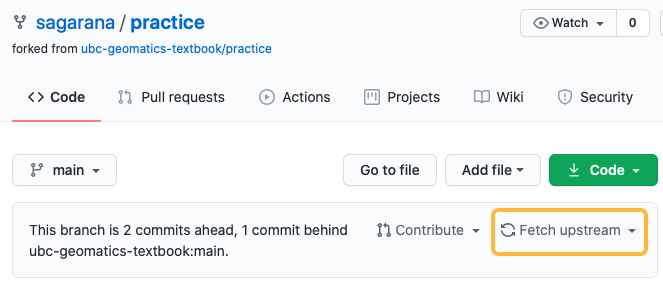
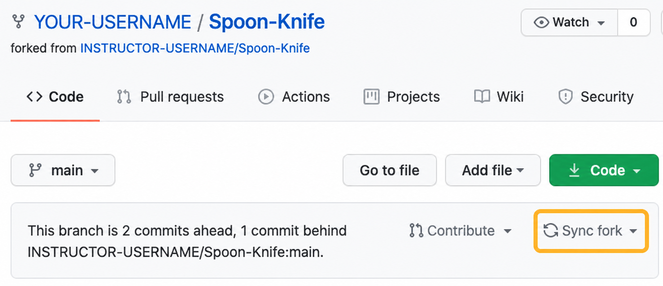
Rewrite collaboration workflow around Spoon-Knife
- Demonstrate the instructor forking octocat/Spoon-Knife.
- Direct students to fork and clone the instructor's fork.
- Target student pull requests at the instructor's repository.
- Replace instructor-specific repository links and screenshots.

diff --git a/content/05_collab_on_github.md b/content/05_collab_on_github.md
@@ -17,11 +17,15 @@ nav_exclude: false
 # Collaborating on GitHub
 {: .no_toc}
 
-The GitHub platform facilitates collaboration by managing access and tracking activity on multi-author projects. A common workflow for teamwork is to use the _fork_, _clone_, and _pull request_ features of Git and GitHub. Consider this example: 
+The GitHub platform facilitates collaboration by managing access and tracking activity on multi-author projects. A common workflow for teamwork is to use the _fork_, _clone_, and _pull request_ features of Git and GitHub. Consider this example:
 
-> _A team of 10 people is writing a textbook. Everyone will contribute content and the files will be stored in the main branch of the project repository. To avoid unintended conflicts each team member will work in their own copy of the repository, periodically merging their work back into the main project repository._ 
+> _A team of 10 people is writing a textbook. Everyone will contribute content and the files will be stored in the main branch of the project repository. To avoid unintended conflicts each team member will work in their own copy of the repository, periodically merging their work back into the main project repository._
 
  ![](figures/git-collaboration_1.png)
+
+Throughout this section of the workshop, you will practice this team workflow with GitHub's public [`octocat/Spoon-Knife`](https://github.com/octocat/Spoon-Knife) demonstration repository.
+
+![The octocat/Spoon-Knife repository on GitHub](figures/spoon-knife-overview.png)
 
 Here are some of the Git commands and GitHub features you will encounter in this workflow.
 
@@ -30,45 +34,47 @@ Here are some of the Git commands and GitHub features you will encounter in this
 - **Pull request**. A GitHub feature that allows the owner of the main project repository to "pull" in changes made in forks of the repository. When it's time to merge your own work with the main project repository, submit a "pull request" from your fork.
 
 ### Creating a fork
-In this scenario team members never edit the main project repository: each person's work is done in a _fork_, a copy of the main repository that exists in their own GitHub account. 
+In this scenario, team members never edit the main project repository directly. Instead, each person works in a _fork_, a copy of the main repository in their own GitHub account.
 
-To create a fork sign in to GitHub, navigate to the main project repository, then click the _Fork_ button in the top right corner. 
-![Fork button in GitHub](figures/fork.png)
+GitHub provides [`octocat/Spoon-Knife`](https://github.com/octocat/Spoon-Knife) specifically for practicing how to fork and contribute to a repository. Your instructor will first demonstrate how to fork this repository, creating a workshop repository at `https://github.com/INSTRUCTOR-USERNAME/Spoon-Knife`.
 
+After the instructor's fork has been created, open it using the address provided by your instructor and click _Fork_ in the top-right corner. On the next page, keep the repository name `Spoon-Knife` and click _Create fork_.
 
-## Clone the fork to your own computer
-GitHub is great for storing and sharing files but it's not a good platform for editing. The recommended practice is to _clone_ your repository, which creates a local copy on your own computer where you can edit the files with your preferred text editor. 
+![The Fork button in the instructor's Spoon-Knife fork](figures/fork.png)
 
-*1*{: .circle .circle-blue} In GitHub, find the repository to clone and click the _Code_ button. Copy the URL to use in the command below.  
+After GitHub creates the fork, its address will be `https://github.com/YOUR-USERNAME/Spoon-Knife`, with your GitHub username in place of `YOUR-USERNAME`.
 
-*2*{: .circle .circle-blue} Open a terminal and navigate to the directory where you would like to copy the repository files.
+## Clone your fork to your computer
+The next step is to _clone_ your fork, creating a local copy that you can edit with your preferred text editor. *GitHub is great for storing and sharing files but it's not a good platform for editing.* 
 
-*3*{: .circle .circle-blue} In the terminal use the command below to clone, replacing the URL with the one copied in step 1 above.
+*1*{: .circle .circle-blue} Open your fork of Spoon-Knife on GitHub, click _Code_, select _SSH_, and copy its SSH URL.
+
+*2*{: .circle .circle-blue} Open a terminal and navigate to the directory where you want to store the local copy.
+
+*3*{: .circle .circle-blue} Run the following command, replacing `YOUR-USERNAME` with your GitHub username.
 
 Input
 {: .label .label-green}
 ~~~
-$ git clone https://github.com/YOUR_GITHUB_USERNAME/REPOSITORY_NAME.git
+$ git clone git@github.com:YOUR-USERNAME/Spoon-Knife.git
 ~~~
 {: .shell-input}
 
 Output
 {: .label .label-yellow}
 ~~~
-Cloning into 'practice'...
-remote: Enumerating objects: 6, done.
-remote: Counting objects: 100% (6/6), done.
-remote: Compressing objects: 100% (4/4), done.
-remote: Total 6 (delta 0), reused 0 (delta 0), pack-reused 0
-Receiving objects: 100% (6/6), done.
+Cloning into 'Spoon-Knife'...
+remote: Counting objects: 10, done.
+remote: Compressing objects: 100% (8/8), done.
+remote: Total 10 (delta 1), reused 10 (delta 1)
+Receiving objects: 100% (10/10), done.
 ~~~
-Git will create a new directory named after the source repository. The directory is automatically tracked by git and it can be synchronized with its counterpart in your GitHub account. 
+Git creates a directory named `Spoon-Knife`, after the source repository.  The directory is automatically tracked by git and it can be synchronized with its counterpart in your GitHub account. 
 
  ![](figures/git-collaboration_2.png)
 
 ## Synchronizing forks and clones
-As you edit the files on your local computer use the `git add` and `git commit` commands to take snapshots of your work. In a team environment it will be important to periodically synchronize the forks and clones so everyone's work is represented in the main project repository.
-
+As team members edit files in their local Spoon-Knife clones, they use `git add` and `git commit` to take snapshots of their work. In a team environment, it is important to periodically synchronize the forks and clones so everyone's work is represented in the main project repository.
 
 ### Pushing local changes to your fork
 It is good practice to regularly synchronize your local copy of the repository (the _clone_) with the repository in your own GitHub account (the _fork_).
@@ -79,91 +85,85 @@ Only local changes that have been _committed_ will be pushed back up to the fork
 {: .note}
 
 
-### Contributing to the main project directory
-Once your work is in your _fork_ in GitHub you can contribute it to the main project repository by using a _Pull request_. This alerts the owner of the project repository and invites them to "pull" your contributions into the project repository, merging them with changes from other team members. 
 
-*1*{: .circle .circle-blue} To create a _Pull request_ navigate to your fork in GitHub and click the _Pull requests_ link.
 
-![pull request button](figures/pull-request.png)
 
-*2*{: .circle .circle-blue} In the next step click _Create pull request_
+### Contributing to the main project repository
+Once your work is in your _fork_ on GitHub, you can contribute it to the instructor's `INSTRUCTOR-USERNAME/Spoon-Knife` repository by using a _pull request_. This alerts the instructor and invites them to "pull" your contribution into the main project repository, merging it with changes from other team members.
 
-![pull request button](figures/compare.png)
+*1*{: .circle .circle-blue} To create a _pull request_, navigate to your Spoon-Knife fork on GitHub and click the _Pull requests_ link.
+
+![The Pull requests tab in a Spoon-Knife fork](figures/pull-request.png)
+
+*2*{: .circle .circle-blue} Click _New pull request_, then click _Create pull request_.
+
+![Comparing a personal Spoon-Knife fork with the instructor's fork](figures/compare.png)
 
 *3*{: .circle .circle-blue} You will be prompted to provide a title and optional comment that helps the team understand your contribution to the main project repository.
 
-![pull request button](figures/pull-request-comment.png)
+![Entering a title and comment for a Spoon-Knife pull request](figures/pull-request-comment.png)
 
-*4*{: .circle .circle-blue} The final step is to click _Create pull request_ to save your contribution. The project repository owner then has the opportunity to review your contributions before merging them into the main project.
-
+*4*{: .circle .circle-blue} Click _Create pull request_ to submit your contribution. The instructor then has the opportunity to review your changes before merging them with the work of other team members. Before creating the pull request, confirm that the base repository is `INSTRUCTOR-USERNAME/Spoon-Knife`.
 
 ### Keeping your fork current
-A _fork_ is a copy of a directory at a moment in time. As other team members make contributions to the project repository your own fork may no longer reflect the current state of the project. When a fork is "behind" the project repository a note will appear in GitHub above the list of files. To incorporate changes from the main project into your local copy click the _Fetch upstream_ link.
+A _fork_ is a copy of a repository at a moment in time. As other team members contribute to the instructor's Spoon-Knife fork, your own Spoon-Knife fork may no longer reflect the current state of the main project. When your fork is behind, open it on GitHub, click _Sync fork_, and then click _Update branch_ to incorporate the latest changes from the team.
 
-![pull request button](figures/fetch-upstream.png)
+![The Sync fork button in a Spoon-Knife fork](figures/fetch-upstream.png)
 
 ### Keeping your local copy current
-_Fetch upstream_ will update your _fork_ with other team members' changes. To bring those same changes back down to the _clone_ on your local machine use the `git pull` command.
+_Sync fork_ will update the Spoon-Knife fork in your GitHub account. To bring those same changes down to the _clone_ on your local machine, use the `git pull` command.
 
-*1*{: .circle .circle-blue} Open a terminal and navigate to the cloned repository in your local file system 
+*1*{: .circle .circle-blue} Open a terminal and navigate to the cloned `Spoon-Knife` repository in your local file system.
 
-*2*{: .circle .circle-blue} Use the command `git pull` to incorporate content from the fork on GitHub 
+*2*{: .circle .circle-blue} Use `git pull origin main` to incorporate content from your Spoon-Knife fork on GitHub.
 
 ### A Basic Collaborative Workflow
 
-When collaborating it's important to work from an updated version of the repository so you should `git pull` before making
-any changes. A basic workflow for collaboration might look like this:
+When collaborating, it is important to work from an updated version of the repository, so you should `git pull` before making any changes. A basic workflow for collaboration might look like this:
 
-* update your local repo with `git pull origin main`,
+* update your local repository with `git pull origin main`,
 * make your changes and stage them with `git add`,
 * commit your changes with `git commit -m`, and
-* upload the changes to GitHub with `git push origin main`
+* upload the changes to your Spoon-Knife fork with `git push origin main`.
 
-Note: it is a good idea to make frequents commits to keep a history of changes in the git repository and prevent conflicts with other collaborators of the project
-
+Note: it is a good idea to make frequent commits to keep a history of changes in the Git repository and prevent conflicts with other collaborators on the project.
 
 ## Exercise
 
-In this exercise, you are going to use Git and GitHub to fix mistakes in a repository. Please begin with viewing, forking, or cloning the [`sandbox` repository](https://github.com/shf/sandbox).
+In this exercise, you are going to use Git and GitHub to make a small change to the instructor's Spoon-Knife fork. Your instructor will provide a repository address in the form `https://github.com/INSTRUCTOR-USERNAME/Spoon-Knife`. Open that repository, fork it to your GitHub account, and then clone your fork to your computer.
 
-This repository is supposed to have two folders. In the folder `text`, we would like to keep pieces of news as text files. In the second folder, `figures`, we would like to keep on figure for each file. The whole repository is a simplified version of a database for the news website.
+Open `index.html` in a text editor and make a small change, such as adding a sentence. Use `git add` and `git commit` to record your change, then push it to your Spoon-Knife fork. Finally, follow the steps above to prepare a pull request from your fork to the instructor's Spoon-Knife fork. Confirm that the base repository is `INSTRUCTOR-USERNAME/Spoon-Knife` before creating the pull request.
 
-There are several major mistakes in the repository, such as files with wrong extensions or in the wrong place, and a few minor mistakes, such as misspelled words. You are asked to add one more piece of news or fix the repository either directly on GitHub or by forking/cloning a local repository, fixing the problems, and pushing it to the remote repository. 
+Spoon-Knife is a public practice repository, so any pull request you submit will be visible to everyone. Do not include personal or sensitive information.
+{: .note}
 
-## Another Exercise: 
+## Another Exercise
 
-For the next step, get into pairs.  One person will be the "Owner" and the other
-will be the "Collaborator". The goal is for the Collaborator to add changes into
-the Owner's repository. If there is time we will switch roles at the end so everyone can play Owner and Collaborator.
+For the next step, get into pairs. One person will be the "Owner" and the other will be the "Collaborator." The Owner will use the Spoon-Knife fork in their GitHub account. The goal is for the Collaborator to add changes to the Owner's Spoon-Knife fork. If there is time, switch roles at the end so everyone can play Owner and Collaborator.
 
-First the Owner needs to give the Collaborator access to their repository.
-Navigate to your repository on GitHub, click the settings button on the right,
-then select Manage access. Click the green <em>Invite a collaborator</em> button and enter your partner's GitHub username in the search bar.
+First, the Owner needs to give the Collaborator access to their Spoon-Knife fork. Navigate to the fork on GitHub, click _Settings_, select _Collaborators_, and invite your partner using their GitHub username.
 
-![Adding Collaborators on GitHub](figures/github-add-collaborators.png)
+![Adding collaborators to a repository on GitHub](figures/github-add-collaborators.png)
 
-To accept access to the Owner's repo the Collaborator
-needs to go to [https://github.com/notifications](https://github.com/notifications).
+To accept access to the Owner's fork, the Collaborator needs to go to [https://github.com/notifications](https://github.com/notifications).
 
-Next, the Collaborator needs to download a copy of the Owner's repository to their computer. This is called "cloning" a repository. To clone the Owner's "hello-world" repository onto
-their `Desktop` the Collaborator would enter this command:
+Next, the Collaborator needs to clone the Owner's Spoon-Knife fork onto their computer. To clone it to the `Desktop`, the Collaborator would enter this command, replacing `OWNER-USERNAME` with the Owner's GitHub username:
 
 Input
 {: .label .label-green}
 ~~~
-$ git clone https://github.com/owner's-github-username/hello-world.git ~/Desktop/owner-hello-world
+$ git clone git@github.com:OWNER-USERNAME/Spoon-Knife.git ~/Desktop/owner-Spoon-Knife
 ~~~
 {: .shell-input}
 
-This creates a local copy of the owner's hello-world repository in a folder named <em>owner-hello-world</em>.  The collaborator can now make changes in their clone of the Owner's repository using the commands introduced earlier.
+This creates a local copy of the Owner's Spoon-Knife fork in a folder named <em>owner-Spoon-Knife</em>. The Collaborator can now make changes using the commands introduced earlier.
 
 - use `cd` to navigate to the cloned repository
-- use `touch` to create a new file in the repository
-- add a few lines to the file using a text editor
+- edit `index.html` using a text editor
 - use `git add` to stage the file
 - use `git commit -m "Commit note"` to commit the changes
 
-Then push the Collaborator's change(s) to the *Owner's* repository on GitHub:
+Then push the Collaborator's changes to the _Owner's_ Spoon-Knife fork on GitHub:
 
 Input
 {: .label .label-green}
@@ -172,15 +172,11 @@ $ git push origin main
 ~~~
 {: .shell-input}
 
-Note that this time we didn't have to create a remote called `origin`: Git uses this
-name by default when we clone a repository.  (This is why `origin` was a
-sensible choice for a nickname earlier when we were setting up remotes by hand.)
+This time, you did not have to create a remote called `origin`: Git uses this name by default when you clone a repository.
 
-Take another look at the Owner's repository on the GitHub website (you might need
-to refresh your browser). You should be able to see the new commit made by the
-Collaborator.
+Take another look at the Owner's Spoon-Knife fork on GitHub. You may need to refresh the browser to see the new commit made by the Collaborator.
 
-To download the Collaborator's changes from GitHub, the Owner now enters this command on their own computer:
+To download the Collaborator's changes from GitHub, the Owner now enters this command in their own local Spoon-Knife clone:
 
 Input
 {: .label .label-green}
@@ -189,7 +185,6 @@ $ git pull origin main
 ~~~
 {: .shell-input}
 
-Now the three repositories - Owner's local, Collaborator's local, and Owner's on
-GitHub - are back in sync.
+Now the three repositories—the Owner's local clone, the Collaborator's local clone, and the Owner's Spoon-Knife fork on GitHub—are back in sync.
 
-___Switch Owner and Collaborator roles if time permits and you'd like more practice___
+___Switch Owner and Collaborator roles if time permits and you would like more practice.___
